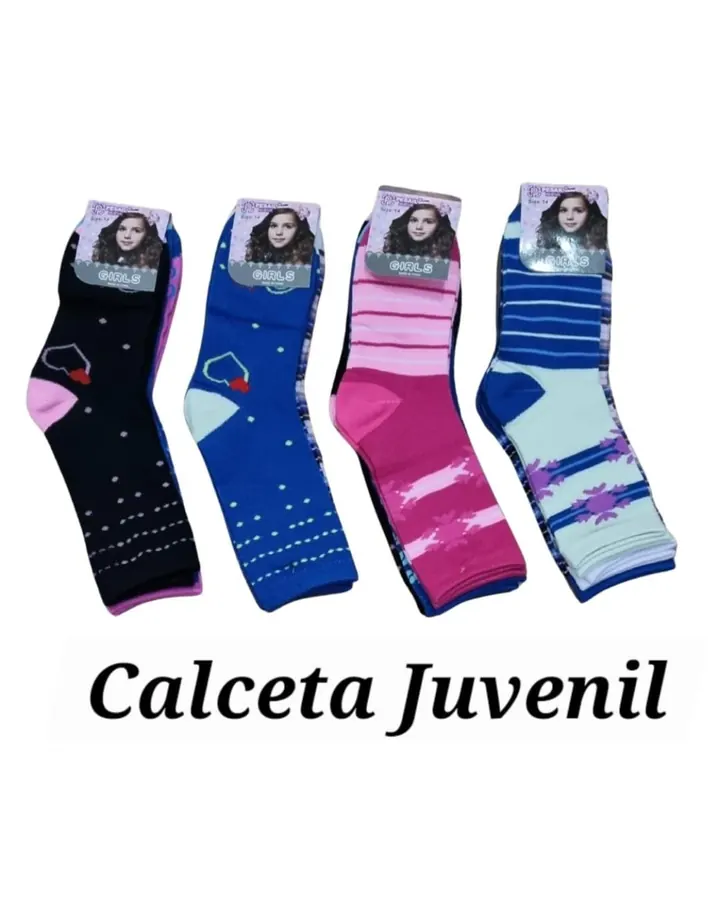
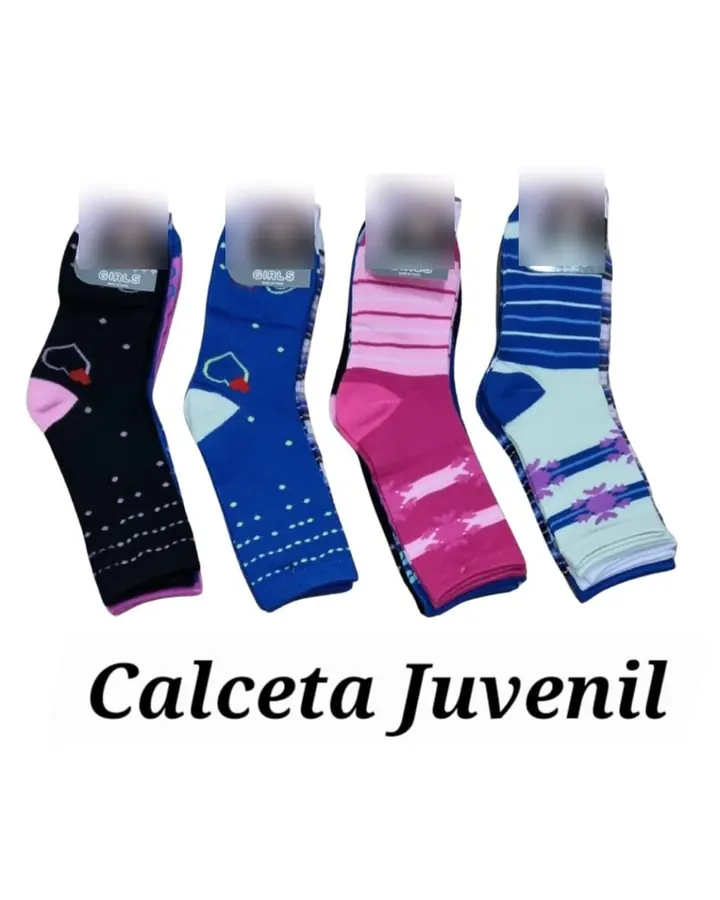
Versión 4.9: revisión legal del sitio
- Retira fotos con modelos de otras tiendas y la de pantalón acampanado/bóxer de tela; difumina modelos de la portada y caras de niñas en el envase de calceta juvenil.
- Tapa las leyendas 'Triunf' (parecido a una marca registrada).
- Quita afirmaciones de salud (afiches 'reductor/celulitis' y 'circulación/antibacterianas'); el ayudante con IA no promete efectos ni usa superlativos.
- Corrige las redes sociales escritas en 16 afiches (@angie.secret_ y Angie's Secret).
- Avisos de fotos referenciales y de descripción del fabricante en catálogo y fichas.
- Retracto: sin 'trajes de baño', 'después de la entrega' y compra por catálogo en tienda.
- Términos versión 2 y privacidad versión 5 (identificación del vendedor, mayores de 18, aviso de retiro de contenido, art. 50 A, almacenamiento local, bases legales, menores, estado Ley 21.719).

Claude-Session: https://claude.ai/code/session_018UgF5FJSViNSxv4WURKSyc

diff --git a/sitio/js/datos.js b/sitio/js/datos.js
@@ -139,11 +139,11 @@ const PRODUCTOS = [
   { id: "calzon-senora-xxxl", n: "Calzón de señora talla XXXL", para: ["mujer"], cat: "calzones", t: "todo", d: "Algodón peruano, en talla XXXL.", tallas: ["XXXL"], fotos: ["c-calzon-senora-xxxl"], k: "senora alto talla grande", modelo: true },
   { id: "calzon-midoly", n: "Calzón Midoly talla S", para: ["mujer"], cat: "calzones", t: "todo", d: "Algodón peruano, en talla S.", tallas: ["S"], fotos: ["c-calzon-midoly"], modelo: true },
   { id: "boxer-femenino", n: "Bóxer femenino de algodón peruano", para: ["mujer"], cat: "calzones", t: "todo", d: "Algodón peruano, cómodo y de colores.", fotos: ["c-boxer-femenino"], k: "boxer mujer culotte", modelo: true },
-  { id: "pantaleta-triunf", n: "Pantaleta lisa Triunf", para: ["mujer"], cat: "calzones", t: "todo", d: "Algodón peruano, lisa y de colores.", fotos: ["c-pantaleta-triunf"], k: "culotte", modelo: true },
+  { id: "pantaleta-triunf", n: "Pantaleta lisa de algodón peruano", para: ["mujer"], cat: "calzones", t: "todo", d: "Algodón peruano, lisa y de colores.", fotos: ["c-pantaleta-triunf"], k: "culotte", modelo: true },
   { id: "pantaleta-short", n: "Pantaleta short de algodón", para: ["mujer"], cat: "calzones", t: "todo", d: "Algodón peruano, tipo short.", fotos: ["c-pantaleta-short"], k: "culotte", modelo: true },
   { id: "pantaleta-a9640", n: "Pantaleta A9640", para: ["mujer"], cat: "calzones", t: "todo", d: "Acanalada, en varios colores.", tallas: ["L", "XL", "XXL"], fotos: ["c-pantaleta-a9640"], k: "culotte", modelo: true },
   { id: "pantaleta-encaje-21575", n: "Pantaleta de encaje 21575", para: ["mujer"], cat: "calzones", t: "todo", d: "Con encaje, en varios colores.", tallas: ["M", "L", "XL", "XXL"], fotos: ["c-pantaleta-encaje-21575"], k: "culotte encaje", modelo: true },
-  { id: "bikini-triunf", n: "Bikini liso Triunf", para: ["mujer"], cat: "calzones", t: "todo", d: "Algodón peruano, liso y de colores.", fotos: ["c-bikini-triunf"], modelo: true },
+  { id: "bikini-triunf", n: "Bikini liso de algodón peruano", para: ["mujer"], cat: "calzones", t: "todo", d: "Algodón peruano, liso y de colores.", fotos: ["c-bikini-triunf"], modelo: true },
   { id: "bikini-5098", n: "Bikini 5098", para: ["mujer"], cat: "calzones", t: "todo", d: "Con borde de encaje, en varios colores.", tallas: ["L", "XL", "2XL"], fotos: ["c-bikini-5098"], modelo: true },
   { id: "calzon-sacapierna", n: "Calzón sacapierna", para: ["mujer"], cat: "calzones", t: "todo", d: "Algodón peruano, corte alto en la pierna.", fotos: ["c-calzon-sacapierna"], k: "sacapierna", modelo: true },
   { id: "calzon-encaje-204", n: "Calzón de encaje 204", para: ["mujer"], cat: "calzones", t: "todo", d: "Con cintura de encaje.", tallas: ["M", "L", "XL", "XXL"], fotos: ["c-calzon-encaje-204"], k: "encaje", modelo: true },
@@ -160,21 +160,20 @@ const PRODUCTOS = [
   { id: "calzones-relleno", n: "Calzones y shorts con relleno", para: ["mujer"], cat: "calzones", t: "todo", d: "Realzan la silueta de forma discreta bajo pantalones y vestidos.", col: ["Negro", "Blanco", "Piel", "Morado"], fotos: ["w-calzon-relleno"], k: "levanta cola gluteos" },
 
   // Fajas y modeladores
-  { id: "calzon-faja-k028", n: "Calzón faja panal K028", para: ["mujer"], cat: "fajas", t: "todo", d: "Tejido panal que moldea. Marca MBB.", fotos: ["c-calzon-faja-k028"], k: "faja reductor", modelo: true },
+  { id: "calzon-faja-k028", n: "Calzón faja panal K028", para: ["mujer"], cat: "fajas", t: "todo", d: "Tejido panal. Marca MBB.", fotos: ["c-calzon-faja-k028"], k: "faja reductor", modelo: true },
   { id: "calzon-faja-k038", n: "Calzón faja panal largo K038", para: ["mujer"], cat: "fajas", t: "todo", d: "Tejido panal, modelo largo. Marca MBB.", fotos: ["c-calzon-faja-k038"], k: "faja reductor", modelo: true },
   { id: "calzon-faja-3363", n: "Calzón faja 3363", para: ["mujer"], cat: "fajas", t: "todo", d: "En negro, blanco, piel y morado.", fotos: ["c-calzon-faja-3363"], k: "faja reductor", modelo: true },
   { id: "calzon-faja-3368", n: "Calzón faja 3368", para: ["mujer"], cat: "fajas", t: "todo", d: "Tiro alto, talla única.", tallas: ["Única"], fotos: ["c-calzon-faja-3368"], k: "faja reductor tiro alto", modelo: true },
   { id: "calzon-faja-tiro-alto", n: "Calzón faja de tiro alto", para: ["mujer"], cat: "fajas", t: "todo", d: "Tiro alto, en negro, piel y blanco.", fotos: ["c-calzon-faja-tiro-alto", "c-calzon-faja-tiro-alto-2", "c-calzon-faja-tiro-alto-3"], k: "faja reductor tiro alto", modelo: true },
   { id: "modelador-8021", n: "Modelador 8021", para: ["mujer"], cat: "fajas", t: "todo", d: "Modelador en varios colores. Marca Body Key.", fotos: ["c-modelador-8021"], k: "faja reductor body", modelo: true },
-  { id: "fajas", n: "Fajas modeladoras", para: ["mujer"], cat: "fajas", t: "todo", d: "Cinturillas, shorts y bodies reductores para usar bajo la ropa.", tallas: SXXL, col: ["Negro", "Piel"], fotos: ["w-fajas"], afiches: ["d10d526d"], k: "faja reductora cinturilla body" },
+  { id: "fajas", n: "Fajas modeladoras", para: ["mujer"], cat: "fajas", t: "todo", d: "Cinturillas, shorts y bodies modeladores para usar bajo la ropa.", tallas: SXXL, col: ["Negro", "Piel"], fotos: ["w-fajas"], k: "faja reductora cinturilla body" },
 
   // Ropa interior de hombre
   { id: "boxer-adulto-jack", n: "Bóxer de adulto Jack", para: ["hombre"], cat: "interior-hombre", t: "todo", d: "Bóxer de colores, surtido de tallas.", fotos: ["c-boxer-adulto-jack"], k: "calzoncillo", modelo: true },
   { id: "boxer-liso-milano", n: "Bóxer liso Milano", para: ["hombre"], cat: "interior-hombre", t: "todo", d: "Liso, en varios colores.", fotos: ["c-boxer-liso-milano"], k: "calzoncillo", modelo: true },
   { id: "boxer-milano", n: "Bóxer Milano", para: ["hombre"], cat: "interior-hombre", t: "todo", d: "Pretina de color, en varios colores.", fotos: ["c-boxer-milano"], k: "calzoncillo", modelo: true },
-  { id: "boxer-maxi", n: "Bóxer maxi pierna larga", para: ["hombre"], cat: "interior-hombre", t: "todo", d: "Pierna larga, en varios colores. Marca Milano.", fotos: ["c-boxer-maxi", "c-boxer-maxi-2"], k: "calzoncillo largo", modelo: true },
+  { id: "boxer-maxi", n: "Bóxer maxi pierna larga", para: ["hombre"], cat: "interior-hombre", t: "todo", d: "Pierna larga, en varios colores. Marca Milano.", fotos: ["c-boxer-maxi"], k: "calzoncillo largo", modelo: true },
   { id: "slip-milano", n: "Slip Milano", para: ["hombre"], cat: "interior-hombre", t: "todo", d: "Slip en varios colores.", fotos: ["c-slip-milano"], k: "calzoncillo", modelo: true },
-  { id: "boxer-tela-leo", n: "Bóxer de tela LEO, pack de 2", para: ["hombre"], cat: "interior-hombre", t: "todo", d: "Bóxer de tela suelto, a cuadros. Vienen 2 por pack.", fotos: ["c-boxer-tela-leo"], k: "calzoncillo suelto cuadros pack", modelo: true },
   { id: "slip-boxer-hombre", n: "Slip y bóxer para hombre", para: ["hombre"], cat: "interior-hombre", t: "todo", d: "Slip, bóxer clásico y bóxer largo, lisos y estampados. 95% algodón y 5% lycra.", tallas: SXXL, col: ["Negro", "Blanco", "Gris", "Azul", "Celeste", "Naranja", "Verde"], fotos: ["m-ropa-interior"], afiches: ["40b9f8ba"], k: "calzoncillo boxer slip milano" },
   { id: "calzoncillos-largos", n: "Calzoncillos largos de polar", para: ["hombre"], cat: "interior-hombre", t: "invierno", d: "Primera capa térmica para los días más fríos.", tallas: SXXL, col: ["Gris claro", "Gris oscuro"], fotos: ["m-calzoncillo-largo"], afiches: ["cd40895a"], k: "termico primera capa" },
   { id: "conjunto-termico", n: "Conjunto térmico de polar", para: ["hombre"], cat: "interior-hombre", t: "invierno", d: "Polera y calzoncillo largo de polar, juntos o por separado.", tallas: SXXL, col: ["Azul marino", "Gris"], fotos: ["m-polera-polar"], afiches: ["740f1965"], k: "termico primera capa polera" },
@@ -222,7 +221,6 @@ const PRODUCTOS = [
   { id: "calzas-y-shorts", n: "Calzas y shorts lisos", para: ["mujer"], cat: "pantalones", t: "todo", d: "Calzas de pierna recta y acampanada, y shorts.", fotos: ["c-calzas-y-shorts"], k: "leggins short", modelo: true },
   { id: "short-calza", n: "Short tipo calza", para: ["mujer"], cat: "pantalones", t: "verano", d: "Short elástico de tiro alto.", col: ["Negro", "Arena", "Verde olivo", "Verde petróleo", "Café", "Burdeo", "Azul marino"], fotos: ["c-short-calza"], k: "calza corta", modelo: true },
   { id: "pantalon-pata-recta", n: "Pantalón pata recta", para: ["mujer"], cat: "pantalones", t: "todo", d: "Pata recta estándar, en varios colores.", fotos: ["c-pantalon-pata-recta"], modelo: true },
-  { id: "pantalon-acampanado", n: "Pantalón acampanado", para: ["mujer"], cat: "pantalones", t: "todo", d: "Tiro alto y pierna acampanada.", col: ["Negro", "Café"], fotos: ["c-pantalon-acampanado", "c-pantalon-acampanado-2"], k: "oxford flare", modelo: true },
   { id: "pantalon-prelavado", n: "Pantalón prelavado", para: ["mujer"], cat: "pantalones", t: "todo", d: "Pierna ancha y cintura con cordón.", fotos: ["c-pantalon-prelavado"], k: "jeans ancho", modelo: true },
   { id: "calzas-tiro-alto", n: "Calzas tiro alto", para: ["mujer"], cat: "pantalones", t: "todo", d: "Elásticas y cómodas, con pretina alta que estiliza.", tallas: SXXL, col: ["Azul jaspe", "Azul marino", "Gris jaspe", "Negro"], fotos: ["w-calza-tiro-alto"], afiches: ["487a2e06"], k: "leggins" },
   { id: "calzas-forradas", n: "Calzas forradas", para: ["mujer"], cat: "pantalones", t: "invierno", d: "Interior de lanilla, abrigadas y sin transparencias.", col: ["Azul marino", "Negro", "Bordó", "Gris oscuro", "Gris melange", "Verde militar", "Beige taupe", "Rosa viejo"], fotos: ["w-calza-forrada"], afiches: ["12c43e7c", "0b9a064a"], k: "leggins termicas" },
@@ -245,8 +243,8 @@ const PRODUCTOS = [
   { id: "tobillera-cobre-sc2191", n: "Tobillera de cobre y bambú SC2191", para: ["mujer"], cat: "calcetas", t: "todo", d: "Cobre y bambú. Marca Za-Za.", fotos: ["c-tobillera-cobre-sc2191"], k: "soquete", modelo: true },
   { id: "talonera-cobre-sc2116", n: "Talonera de cobre SC2116", para: ["mujer"], cat: "calcetas", t: "todo", d: "Talonera de cobre y algodón.", fotos: ["c-talonera-cobre-sc2116"], k: "soquete invisible", modelo: true },
   { id: "talonera-q8", n: "Talonera Q8", para: ["mujer"], cat: "calcetas", t: "todo", d: "Talonera en rosado, beige, blanco y negro.", fotos: ["c-talonera-q8"], k: "soquete invisible", modelo: true },
-  { id: "calceta-bambu-sc2140", n: "Calceta de bambú SC2140", para: ["mujer"], cat: "calcetas", t: "todo", d: "Bambú, apta para diabéticos.", fotos: ["c-calceta-bambu-sc2140"], k: "diabetico diabetes", modelo: true },
-  { id: "calceta-circulacion", n: "Calceta de circulación", para: ["mujer"], cat: "calcetas", t: "todo", d: "Algodón, de mujer.", fotos: ["c-calceta-circulacion"], k: "diabetico", modelo: true },
+  { id: "calceta-bambu-sc2140", n: "Calceta de bambú SC2140", para: ["mujer"], cat: "calcetas", t: "todo", d: "Bambú, de la línea para diabéticos del fabricante.", fotos: ["c-calceta-bambu-sc2140"], k: "diabetico diabetes", modelo: true },
+  { id: "calceta-circulacion", n: "Calceta de algodón línea Circulación, de Milano", para: ["mujer"], cat: "calcetas", t: "todo", d: "Algodón, de mujer. «Circulación» es el nombre que le da su fabricante.", fotos: ["c-calceta-circulacion"], k: "diabetico circulacion milano", modelo: true },
   { id: "calceta-juvenil", n: "Calceta juvenil", para: ["mujer"], cat: "calcetas", t: "todo", d: "Con diseños de colores.", fotos: ["c-calceta-juvenil"], modelo: true },
   { id: "calceta-toalla-w16208", n: "Calceta de algodón toalla W16208", para: ["mujer"], cat: "calcetas", t: "invierno", d: "Interior de toalla, con vuelta. Marca Pesail.", fotos: ["c-calceta-toalla-w16208"], modelo: true },
   { id: "calceta-larga-hd16305", n: "Calceta larga de algodón toalla HD-16305", para: ["mujer"], cat: "calcetas", t: "invierno", d: "Larga, con interior de toalla. Marca Pesail.", fotos: ["c-calceta-larga-hd16305"], modelo: true },
@@ -256,7 +254,7 @@ const PRODUCTOS = [
   { id: "calceta-thermo-8505", n: "Calceta thermo 8505", para: ["mujer"], cat: "calcetas", t: "invierno", d: "Térmica, con diseños.", fotos: ["c-calceta-thermo-8505"], k: "termica", modelo: true },
   { id: "calcetin-ultra-termico-sa2328", n: "Calcetín ultra térmico SA2328", para: ["mujer"], cat: "calcetas", t: "invierno", d: "Ultra térmico, de mujer. Marca Za-Za.", fotos: ["c-calcetin-ultra-termico-sa2328"], k: "termica", modelo: true },
   { id: "calceta-cachemira-sc2330", n: "Calceta de cachemira SC2330", para: ["mujer"], cat: "calcetas", t: "invierno", d: "Cachemira, de mujer. Marca Za-Za.", fotos: ["c-calceta-cachemira-sc2330"], k: "termica", modelo: true },
-  { id: "calcetin-diabetico-sk520", n: "Calcetín diabético grueso SK520", para: ["mujer"], cat: "calcetas", t: "invierno", d: "Grueso, apto para diabéticos. Marca Pesail.", fotos: ["c-calcetin-diabetico-sk520"], k: "diabetes", modelo: true },
+  { id: "calcetin-diabetico-sk520", n: "Calcetín diabético grueso SK520", para: ["mujer"], cat: "calcetas", t: "invierno", d: "Grueso, de la línea para diabéticos de Pesail.", fotos: ["c-calcetin-diabetico-sk520"], k: "diabetes", modelo: true },
   { id: "tobillera-bambu-sc3119", n: "Tobillera de bambú juvenil SC3119", para: ["mujer", "hombre"], cat: "calcetas", t: "todo", d: "Bambú, tallas 36 a 39. Marca Za-Za.", tallasTexto: "Tallas 36 a 39", fotos: ["c-tobillera-bambu-sc3119"], k: "soquete", modelo: true },
   { id: "media-cana-q44p", n: "Media caña juvenil Q44-P", para: ["mujer", "hombre"], cat: "calcetas", t: "todo", d: "Media caña, talla 38 a 40.", tallasTexto: "Talla 38 a 40", fotos: ["c-media-cana-q44p"], modelo: true },
   { id: "calceta-tenis-color", n: "Calceta tenis de color", para: ["mujer", "hombre"], cat: "calcetas", t: "todo", d: "Calceta deportiva en azul marino, gris y negro.", fotos: ["c-calceta-tenis-color"], k: "deportiva", modelo: true },
@@ -264,7 +262,7 @@ const PRODUCTOS = [
   { id: "tobillera-lisa-cach", n: "Tobillera lisa de hombre Ca&Ch", para: ["hombre"], cat: "calcetas", t: "todo", d: "Lisa, en azul marino, blanco y gris.", fotos: ["c-tobillera-lisa-cach"], k: "soquete", modelo: true },
   { id: "tobillera-cobre-sa1109", n: "Tobillera de cobre y bambú SA1109", para: ["hombre"], cat: "calcetas", t: "todo", d: "Cobre y bambú, con toalla. Marca Za-Za.", fotos: ["c-tobillera-cobre-sa1109"], k: "soquete", modelo: true },
   { id: "calcetin-vestir-ry-q715b", n: "Calcetín de vestir RY-Q715B", para: ["hombre"], cat: "calcetas", t: "todo", d: "De vestir, con rombos. Marca Pesail.", fotos: ["c-calcetin-vestir-ry-q715b"], k: "formal", modelo: true },
-  { id: "calcetin-diabetico-sk420", n: "Calcetín diabético grueso SK420", para: ["hombre"], cat: "calcetas", t: "invierno", d: "Grueso, apto para diabéticos.", fotos: ["c-calcetin-diabetico-sk420"], k: "diabetes", modelo: true },
+  { id: "calcetin-diabetico-sk420", n: "Calcetín diabético grueso SK420", para: ["hombre"], cat: "calcetas", t: "invierno", d: "Grueso, de la línea para diabéticos del fabricante.", fotos: ["c-calcetin-diabetico-sk420"], k: "diabetes", modelo: true },
   { id: "calcetin-diabetico-sa1177", n: "Calcetín diabético de cobre y bambú SA1177", para: ["hombre"], cat: "calcetas", t: "todo", d: "Cobre y bambú, con toalla. Marca Za-Za.", fotos: ["c-calcetin-diabetico-sa1177"], k: "diabetes", modelo: true },
   { id: "calceta-cachemira-sc1339", n: "Calceta de cachemira para diabéticos SC1339", para: ["hombre"], cat: "calcetas", t: "invierno", d: "Cachemira con interior de toalla.", fotos: ["c-calceta-cachemira-sc1339"], k: "diabetes termica", modelo: true },
   { id: "calcetin-grueso-sa1107", n: "Calcetín grueso de cobre y bambú SA1107", para: ["hombre"], cat: "calcetas", t: "invierno", d: "Grueso, de cobre y bambú.", fotos: ["c-calcetin-grueso-sa1107", "c-calcetin-grueso-sa1107-2"], k: "termica", modelo: true },
@@ -275,7 +273,7 @@ const PRODUCTOS = [
   { id: "calceta-alpaca-s08", n: "Calceta de alpaca antideslizante S08", para: ["hombre"], cat: "calcetas", t: "invierno", d: "Alpaca, con antideslizante. Marca Pesail.", fotos: ["c-calceta-alpaca-s08"], k: "termica chiporro", modelo: true },
   { id: "calcetas", n: "Calcetas para toda la familia", para: ["mujer", "hombre"], cat: "calcetas", t: "todo", d: "Deportivas, de vestir, casuales, tobilleras y térmicas.", tallas: ["35 a 38", "39 a 42", "43 a 46"], tallasTexto: "Del 35 al 46", col: ["Negro", "Azul marino", "Gris", "Blanco", "Gris jaspe", "Azul"], fotos: ["u-calcetas"], afiches: ["c19fb92a"], k: "calcetines medias" },
   { id: "calcetas-chiporro", n: "Calcetas de chiporro antideslizantes", para: ["hombre"], cat: "calcetas", t: "invierno", d: "Interior de chiporro y puntos antideslizantes para andar en casa.", tallas: ["Única (39 a 46)"], col: ["Azul marino", "Verde", "Gris oscuro"], fotos: ["m-calcetas-chiporro"], afiches: ["548851a5"], k: "calcetines polar" },
-  { id: "calcetas-diabeticos", n: "Calcetas para diabéticos", para: ["hombre"], cat: "calcetas", t: "todo", d: "Con cobre y bambú, y un puño que no aprieta. Pensadas para pies delicados.", tallas: ["Única"], col: ["Negro", "Azul marino", "Café"], fotos: ["m-calcetas-diabetes"], afiches: ["d2c3cf1e"], k: "calcetines diabetes" },
+  { id: "calcetas-diabeticos", n: "Calcetas para diabéticos", para: ["hombre"], cat: "calcetas", t: "todo", d: "Con cobre y bambú, y un puño que no aprieta.", tallas: ["Única"], col: ["Negro", "Azul marino", "Café"], fotos: ["m-calcetas-diabetes"], k: "calcetines diabetes" },
 
   // Gorros, bufandas y accesorios
   { id: "panuelos-color", n: "Pañuelos de color Pilathus", para: ["mujer", "hombre"], cat: "accesorios", t: "todo", d: "Pañuelos de género con borde de color.", fotos: ["c-panuelos-color"], modelo: true },
@@ -471,7 +469,7 @@ const PREGUNTAS_FRECUENTES = [
   { id: "garantia", cat: "cambios", p: "¿Qué pasa si una prenda viene con falla?", claves: "falla fallada defecto rota descosida garantia mala calidad",
     r: "Tienes garantía legal de 6 meses desde que la recibes: puedes elegir entre el cambio, la reparación o la devolución del dinero (Ley 19.496 sobre Protección de los Derechos de los Consumidores). Escríbenos con una foto de la falla y tu boleta, y lo resolvemos." },
   { id: "retracto", cat: "cambios", p: "¿Qué es el derecho a retracto?", claves: "retracto arrepentirme arrepentimiento devolver diez dias",
-    r: "Si compras a distancia (por ejemplo, por WhatsApp o desde esta página), tienes 10 días desde que recibes el producto para arrepentirte y devolverlo en buen estado, con sus etiquetas y envases originales.\n\n**Importante:** por higiene, no hay derecho a retracto en ropa interior ni trajes de baño si se abrió o retiró su sello o envase de seguridad.\n\nEn las compras hechas en la tienda no corre el retracto, pero sí la garantía legal. [Ver los términos y condiciones](terminos.html#cambios)." },
+    r: "Si compras a distancia (por ejemplo, por WhatsApp o desde esta página), tienes 10 días desde que recibes el producto para arrepentirte y devolverlo en buen estado, con sus etiquetas y envases originales.\n\n**Importante:** por higiene, no hay derecho a retracto en ropa interior ni en otros productos de uso personal o higiene si se abrió o retiró su sello o envase de seguridad después de la entrega.\n\nEn las compras hechas en la tienda con la prenda a la vista no corre el retracto, pero sí la garantía legal. Si en la tienda compraste por catálogo, sin ver la prenda, también tienes derecho a retracto. [Ver los términos y condiciones](terminos.html#cambios)." },
 
   { id: "descuento", cat: "descuento", p: "¿Cómo funciona el descuento de bienvenida?", claves: "descuento bienvenida registro registrarme promocion porcentaje",
     r: "[Regístrate](#registro) con tu nombre, apellido y teléfono. En tu primera compra por WhatsApp tienes 10% si las prendas suman desde $15.000, o 15% si suman $50.000 o más, sin contar el envío. Vale 1 mes desde que te registras y una vez por persona. [Ver las bases](privacidad.html#bases)." },

diff --git a/sitio/terminos.html b/sitio/terminos.html
@@ -34,7 +34,7 @@
   <div class="envoltura">
     <a class="marca" href="/"><span class="oculto">Angie's Secret, volver al inicio</span><span class="logo" aria-hidden="true"><span class="parte rosa">Angie<svg class="apos" viewBox="0 0 30 44"><use href="#i-etiqueta"/></svg>s</span> <span class="parte">Secret</span></span></a>
     <h1>Términos y condiciones</h1>
-    <p class="actualizado">Versión 1, noviembre de 2026. Rigen para el uso de este sitio y para los pedidos que se hagan desde él o por WhatsApp.</p>
+    <p class="actualizado">Versión 2, noviembre de 2026: aclara las fotos referenciales, las descripciones de los fabricantes, el derecho a retracto, la edad para registrarse y pedir, y cómo pedir que retiremos una foto o una marca. Rigen para el uso de este sitio y para los pedidos que se hagan desde él o por WhatsApp.</p>
 
     <nav class="indice" aria-label="Contenido">
       <strong>Contenido</strong>
@@ -65,13 +65,17 @@
       <li><strong>Pedidos y ventas:</strong> WhatsApp de la tienda <a href="https://wa.me/56995709114">+56 9 9570 9114</a> y la tienda física.</li>
       <li><strong>Consultas, problemas con un pedido o con la página, y datos personales:</strong> WhatsApp o llamada al <a href="https://wa.me/56949376311">+56 9 4937 6311</a>.</li>
       <li><strong>Correo:</strong> <a href="mailto:angiessecret2012@gmail.com">angiessecret2012@gmail.com</a>.</li>
+      <li><strong>Quién vende:</strong> el nombre o razón social, el RUT y el domicilio de quien vende te los entregamos por escrito al confirmar tu compra y en tu boleta, y también cuando nos los pidas.</li>
     </ul>
-    <p>Al usar este sitio o hacer un pedido aceptas estos términos. Si los cambiamos, publicaremos la nueva versión aquí con su fecha; a cada pedido se le aplica la versión vigente el día en que lo hiciste. Nada de lo que dicen estos términos limita los derechos que te da la Ley 19.496 sobre Protección de los Derechos de los Consumidores, que son irrenunciables.</p>
+    <p>Este sitio está dirigido a personas en Chile y los envíos se hacen solo dentro de Chile. Para registrarte y para hacer pedidos a distancia debes ser <strong>mayor de 18 años</strong>; si eres menor de edad, pide a tu madre, padre o a un adulto responsable que haga el pedido.</p>
+    <p>Al usar este sitio o hacer un pedido aceptas estos términos. Si los cambiamos, publicaremos la nueva versión aquí con su fecha; a cada pedido se le aplica la versión vigente el día en que lo hiciste. Nada de lo que dicen estos términos limita los derechos que te da la Ley 19.496 sobre Protección de los Derechos de los Consumidores, que son irrenunciables. Si alguna frase fuera poco clara, se interpreta a tu favor, y si alguna parte no fuera válida, el resto sigue vigente.</p>
 
     <h2 id="sitio">2. Qué es este sitio</h2>
     <ul>
       <li>Es un catálogo para conocer nuestros productos y armar un pedido que se envía por WhatsApp. No es una tienda con pago en línea: la página no cobra ni pide datos de tarjetas.</li>
-      <li>Las fotos son de nuestros productos y del local. Los colores pueden verse distintos según la pantalla, y un modelo puede variar levemente entre una partida y otra.</li>
+      <li><strong>Fotos referenciales:</strong> algunas fotos las tomamos en la tienda y muchas son de los fabricantes o proveedores de los productos. Por eso el color, el estampado, el envase o un detalle pueden variar, y los colores se ven distintos según la pantalla. Antes de comprar te confirmamos por escrito el modelo, la talla, el color y el precio de lo que vas a recibir; si lo que recibes no corresponde a lo confirmado, tienes los derechos de la garantía legal (sección 8).</li>
+      <li><strong>Descripciones de los fabricantes:</strong> lo que se dice de productos como calcetines de la línea para diabéticos, prendas con cobre o fajas y prendas modeladoras es lo que informa su fabricante. Ninguno es un producto médico, no prometemos resultados y no reemplazan la indicación de un profesional de la salud.</li>
+      <li>Por ahora los precios no se muestran en el catálogo: te los informamos por WhatsApp o en la tienda, y te confirmamos por escrito el total antes de que pagues (sección 4).</li>
       <li>El catálogo no muestra las unidades disponibles en tiempo real, porque la tienda también vende en persona. La disponibilidad se confirma por WhatsApp antes de comprar.</li>
       <li>Si hubiera un error evidente en una descripción, lo corregiremos y te lo informaremos antes de que compres.</li>
     </ul>
@@ -114,10 +118,10 @@
     <h3>Derecho a retracto (compras a distancia)</h3>
     <div class="destacado">
       <p>Si compras a distancia, por ejemplo por WhatsApp o desde esta página, tienes <strong>derecho a retracto</strong>: <strong>10 días desde que recibes el producto</strong> para arrepentirte y devolverlo en buen estado, con sus etiquetas, envases y elementos originales (artículo 3 bis de la Ley 19.496).</p>
-      <p><strong>Exclusión del derecho a retracto por higiene:</strong> no hay derecho a retracto en <strong>ropa interior ni trajes de baño</strong>, ni en otros productos de uso personal o higiene, <strong>si se abrió o se retiró su sello o envase de seguridad</strong> después de la entrega. Tampoco en productos hechos a tu medida o personalizados según tus indicaciones.</p>
+      <p><strong>Exclusión del derecho a retracto por higiene:</strong> no hay derecho a retracto en <strong>ropa interior</strong> ni en otros productos de uso personal o higiene <strong>si se abrió o se retiró su sello o envase de seguridad después de la entrega</strong>. Tampoco en productos hechos a tu medida o personalizados según tus indicaciones.</p>
       <p style="margin-bottom:0">Para ejercerlo, escríbenos al <a href="https://wa.me/56949376311">+56 9 4937 6311</a> o a <a href="mailto:angiessecret2012@gmail.com">angiessecret2012@gmail.com</a> dentro del plazo y te explicamos cómo devolver el producto. Te devolveremos lo pagado en el plazo que fija la ley.</p>
     </div>
-    <p>En las compras hechas en la tienda física no corre el derecho a retracto, pero sí la garantía legal.</p>
+    <p>En las compras hechas en la tienda física, con la prenda a la vista, no corre el derecho a retracto, pero sí la garantía legal. Si en la tienda compraste por catálogo, sin acceso directo a la prenda, también tienes derecho a retracto.</p>
 
     <h3>Cambios por talla, color o gusto</h3>
     <p>La ley no obliga a cambiar productos sin falla. Si quieres asegurarte de poder cambiar una prenda por talla o color, pregúntanos antes de comprar: te informaremos por escrito las condiciones de esa prenda. Para cualquier cambio, la prenda debe estar sin uso, con sus etiquetas, y con la boleta.</p>
@@ -149,7 +153,8 @@
     <p>Angie's Secret <strong>nunca</strong> te pedirá por mensaje, correo o llamada tus claves, códigos de verificación de WhatsApp ni datos de tarjetas. Nuestros únicos canales son los de la sección 1. Si alguien te contacta en nuestro nombre desde otro número o te pide algo así, no respondas y avísanos al <a href="https://wa.me/56949376311">+56 9 4937 6311</a>.</p>
 
     <h2 id="propiedad">13. Fotos, textos y marcas</h2>
-    <p>El diseño, los textos, el logotipo y las fotos propias de este sitio pertenecen a Angie's Secret. Las marcas de los productos que vendemos pertenecen a sus respectivos dueños.</p>
+    <p>El diseño, los textos, el logotipo y las fotos tomadas por la tienda pertenecen a Angie's Secret. Las fotos de los fabricantes o proveedores y las marcas de los productos que vendemos pertenecen a sus respectivos dueños; las marcas se nombran solo para identificar los productos que vendemos. Angie's Secret no es una tienda oficial de esas marcas ni tiene relación con otras tiendas de nombre parecido.</p>
+    <p><strong>Si eres dueña o dueño de una foto, una marca o cualquier contenido de este sitio</strong> y crees que su uso no corresponde, escríbenos a <a href="mailto:angiessecret2012@gmail.com">angiessecret2012@gmail.com</a> indicando cuál es y por qué: lo revisamos y, si corresponde, lo retiramos a la brevedad.</p>
 
     <h2 id="datos">14. Datos personales</h2>
     <p>Cómo tratamos tus datos, incluida la medición anónima de uso de la página y cómo desactivarla, está en el <a href="/privacidad">aviso de privacidad</a>. No entregamos a nadie información personal de clientas, clientes ni de quienes trabajan en la tienda.</p>
@@ -161,7 +166,7 @@
     <p>Hacemos lo posible para que la página funcione siempre y la información esté al día, pero puede tener interrupciones por mantenimiento o por el servicio de alojamiento. Si encuentras un error, avísanos y lo corregimos. Respondemos por nuestros productos y nuestra atención según la ley.</p>
 
     <h2 id="reclamos">17. Consultas y reclamos</h2>
-    <p>Para cualquier consulta o reclamo, escríbenos o llámanos al <a href="https://wa.me/56949376311">+56 9 4937 6311</a> o a <a href="mailto:angiessecret2012@gmail.com">angiessecret2012@gmail.com</a>: queremos resolverlo contigo. También puedes acudir al Servicio Nacional del Consumidor (<a href="https://www.sernac.cl" target="_blank" rel="noopener">sernac.cl</a>) o al Juzgado de Policía Local que corresponda. Estos términos se rigen por las leyes de Chile.</p>
+    <p>Para cualquier consulta o reclamo, escríbenos o llámanos al <a href="https://wa.me/56949376311">+56 9 4937 6311</a> o a <a href="mailto:angiessecret2012@gmail.com">angiessecret2012@gmail.com</a>: queremos resolverlo contigo. También puedes acudir al Servicio Nacional del Consumidor (<a href="https://www.sernac.cl" target="_blank" rel="noopener">sernac.cl</a>) o presentar tu reclamo ante el Juzgado de Policía Local de tu domicilio o del domicilio de la tienda, a tu elección (artículo 50 A de la Ley 19.496). Estos términos se rigen por las leyes de Chile.</p>
 
     <div class="acciones">
       <a class="boton boton-principal" href="/">Ir al inicio</a>

diff --git a/sitio/privacidad.html b/sitio/privacidad.html
@@ -33,11 +33,11 @@
   <div class="envoltura">
     <a class="marca" href="/"><span class="oculto">Angie's Secret, volver al inicio</span><span class="logo" aria-hidden="true"><span class="parte rosa">Angie<svg class="apos" viewBox="0 0 30 44"><use href="#i-etiqueta"/></svg>s</span> <span class="parte">Secret</span></span></a>
     <h1>Privacidad y bases del descuento de bienvenida</h1>
-    <p class="actualizado">Versión 4, noviembre de 2026: agrega el uso de inteligencia artificial en el ayudante virtual. La versión 3 agregó el código de bienvenida, la medición anónima de uso de la página y la seguridad del sitio. Ver también los <a href="/terminos">términos y condiciones</a>.</p>
+    <p class="actualizado">Versión 5, noviembre de 2026: agrega qué guarda tu navegador, la base legal de cada uso, que no tratamos datos de menores de edad y el estado de la nueva ley de datos personales. La versión 4 agregó el uso de inteligencia artificial en el ayudante virtual y la versión 3 agregó el código de bienvenida, la medición anónima de uso de la página y la seguridad del sitio. Ver también los <a href="/terminos">términos y condiciones</a>.</p>
 
     <h2 id="privacidad">Aviso de privacidad</h2>
     <h3>Quién es responsable de tus datos</h3>
-    <p>Angie's Secret, tienda ubicada en Domingo Santa María 3831, Renca, Región Metropolitana, Chile. Para cualquier consulta sobre tus datos puedes escribirnos a <a href="mailto:angiessecret2012@gmail.com">angiessecret2012@gmail.com</a> o por WhatsApp al <a href="https://wa.me/56949376311">+56 9 4937 6311</a>.</p>
+    <p>Angie's Secret, tienda ubicada en Domingo Santa María 3831, Renca, Región Metropolitana, Chile. Para cualquier consulta sobre tus datos puedes escribirnos a <a href="mailto:angiessecret2012@gmail.com">angiessecret2012@gmail.com</a> o por WhatsApp al <a href="https://wa.me/56949376311">+56 9 4937 6311</a>. Si lo pides, te entregamos por escrito el nombre o razón social y el RUT de la persona responsable.</p>
 
     <h3>Qué datos pedimos</h3>
     <ul>
@@ -51,8 +51,11 @@
     <ul>
       <li><strong>Aplicar tu descuento de bienvenida:</strong> identificarte cuando hagas tu primera compra por WhatsApp y anotar que ya usaste el beneficio. Lo hacemos porque tú lo pides al registrarte.</li>
       <li><strong>Enviarte promociones y novedades,</strong> por WhatsApp o correo, solo si marcaste esa casilla. La base es tu consentimiento, que puedes retirar cuando quieras.</li>
+      <li><strong>Evitar registros falsos o repetidos y proteger el sitio:</strong> con la fecha, la hora y la IP del registro y con los registros de seguridad. La base es el interés legítimo de la tienda en que el beneficio sea uno por persona y en que el sitio sea seguro.</li>
+      <li><strong>Atender tu pedido o tu reclamo</strong> por WhatsApp o correo: con los datos que tú nos das en esa conversación, para cumplir la compra y nuestras obligaciones legales (boleta, garantía y retracto).</li>
     </ul>
     <p>No vendemos ni compartimos tus datos con otras empresas para que te ofrezcan sus productos.</p>
+    <p><strong>Menores de edad:</strong> el registro y el descuento son solo para mayores de 18 años, y no buscamos reunir datos de menores de edad. Si eres madre, padre o tutor y crees que un menor se registró, escríbenos y borramos sus datos.</p>
 
     <h3>Dónde se guardan</h3>
     <p>En Netlify, la empresa que aloja este sitio (sus servidores están fuera de Chile), y en un registro interno de la tienda al que solo accede la familia que la administra. Nunca publicamos ni entregamos a otras personas los datos de quienes se registran.</p>
@@ -62,6 +65,16 @@
       <li>Si no aceptaste recibir promociones, borramos tus datos a más tardar seis meses después de terminada la promoción, es decir, el 31 de julio de 2027.</li>
       <li>Si aceptaste, los guardamos mientras quieras recibir promociones. Cuando te des de baja, los borramos.</li>
     </ul>
+
+    <h3 id="navegador">Lo que guarda tu propio navegador</h3>
+    <p>Para que la página funcione, tu navegador guarda en tu propio equipo (almacenamiento local, no en nuestros servidores) algunos datos que puedes borrar cuando quieras limpiando los datos del sitio en tu navegador:</p>
+    <ul>
+      <li>El pedido que estás armando y, por 24 horas, el último pedido que enviaste, para que puedas reenviarlo.</li>
+      <li>Si te registraste: tu nombre, apellido, la fecha y tu código de bienvenida, para mostrarte tu descuento. Tu teléfono no se guarda en el navegador.</li>
+      <li>Cuántas respuestas con inteligencia artificial te quedan hoy en el ayudante.</li>
+      <li>El número al azar de la medición anónima y tu opción de no ser medido (más abajo).</li>
+    </ul>
+    <p>No usamos cookies de publicidad ni de otras empresas.</p>
 
     <h3 id="medicion">Medición anónima de uso de la página</h3>
     <p>Para mejorar la página contamos, de forma anónima, cómo se usa: visitas, si llegan desde Google, Instagram, Facebook o WhatsApp, si es celular o computador, qué productos se miran, qué se busca, cuántos pedidos se envían, qué temas se consultan al ayudante y si la página tiene errores.</p>
@@ -88,7 +101,8 @@
 
     <h3>Tus derechos</h3>
     <p>Puedes pedirnos ver tus datos, corregirlos, borrarlos, oponerte a su uso, llevártelos o que los dejemos de usar por un tiempo. También puedes darte de baja de las promociones cuando quieras: responde "BAJA" a cualquier mensaje nuestro, escríbenos a <a href="mailto:angiessecret2012@gmail.com">angiessecret2012@gmail.com</a> o por WhatsApp al <a href="https://wa.me/56949376311">+56 9 4937 6311</a>. Cada correo de promociones incluirá también cómo darte de baja.</p>
-    <p>Tratamos tus datos según la Ley 19.628 sobre protección de la vida privada y, desde su entrada en vigencia, la Ley 21.719 sobre protección de datos personales.</p>
+    <p>Te respondemos dentro de los plazos que fija la ley. Si no quedas conforme, puedes reclamar ante los tribunales y, cuando entre en funciones, ante la Agencia de Protección de Datos Personales.</p>
+    <p>Tratamos tus datos según la Ley 19.628 sobre protección de la vida privada y, desde su entrada en vigencia, la Ley 21.719 sobre protección de datos personales (hoy prevista para el 1 de diciembre de 2026; si la ley cambia esa fecha, nos ajustaremos a la nueva).</p>
 
     <h2 id="bases">Bases de la promoción "Descuento de bienvenida"</h2>
     <ol>

diff --git a/sitio/js/app.js b/sitio/js/app.js
@@ -8,6 +8,8 @@ const IMGS = window.__IMGS__ || {};
 const foto = k => IMGS[k] || `img/${k}.webp`;
 // Secciones de ropa interior: llevan el aviso del derecho a retracto por higiene.
 const CATS_INTERIOR = new Set(["sostenes", "calzones", "fajas", "interior-hombre"]);
+// Prendas cuya descripción viene del fabricante y podría leerse como de salud (diabéticos, circulación, cobre, fajas).
+const DESCRIPCION_FABRICANTE = /diabet|circulacion|cobre|faja|modelador/;
 const afiche = id => IMGS["a:" + id] || `fichas/${id}.webp`;
 const $ = s => document.querySelector(s);
 const esc = s => String(s).replace(/[&<>"']/g, c => ({ "&": "&amp;", "<": "&lt;", ">": "&gt;", '"': "&quot;", "'": "&#39;" }[c]));
@@ -386,6 +388,8 @@ function abrirProducto(id) {
       <h2 id="ficha-nombre">${esc(p.n)}</h2>
       <p>${esc(p.d)}</p>
       <p class="letra-chica">${esc(textoTallas(p))}${p.precio ? `. Precio: $${p.precio.toLocaleString("es-CL")}` : ""}</p>
+      ${p.modelo ? `<p class="letra-chica nota-ficha">Foto referencial del proveedor: el color, el estampado o el envase pueden variar. Te confirmamos el modelo por WhatsApp antes de comprar.</p>` : ""}
+      ${DESCRIPCION_FABRICANTE.test(norm(p.n + " " + p.d)) ? `<p class="letra-chica nota-ficha">Descripción según su fabricante. No es un producto médico ni reemplaza la indicación de un profesional de la salud.</p>` : ""}
       <form id="form-producto">
         ${tallas ? `<fieldset><legend>Talla</legend><div class="opciones">${[...tallas, "No sé mi talla"].map((t, i) => `<label class="opcion"><input type="radio" name="talla" value="${esc(t)}" ${tallas.length === 1 && i === 0 ? "checked" : ""}><span>${esc(t)}</span></label>`).join("")}</div></fieldset>`
                  : `<div class="campo"><label for="talla-libre">Talla (opcional)</label><input id="talla-libre" name="tallaLibre" placeholder="Ej: M, XL, 46"></div>`}
@@ -401,7 +405,7 @@ function abrirProducto(id) {
           <button type="button" class="boton-texto compartir" id="compartir"><svg viewBox="0 0 24 24" aria-hidden="true" style="width:1.1em;height:1.1em;vertical-align:-3px"><use href="#i-compartir"/></svg> Compartir este producto</button>
         </div>
         <p class="letra-chica">Te confirmamos disponibilidad y precio por WhatsApp.</p>
-        ${CATS_INTERIOR.has(p.cat) || p.interior ? `<p class="aviso-legal"><strong>Derecho a retracto:</strong> por higiene, la ropa interior no tiene derecho a retracto si se abrió o retiró su sello o envase de seguridad. <a href="terminos.html#cambios">Más información</a></p>` : ""}
+        ${CATS_INTERIOR.has(p.cat) || p.interior ? `<p class="aviso-legal"><strong>Derecho a retracto:</strong> por higiene, la ropa interior no tiene derecho a retracto si se abrió o retiró su sello o envase de seguridad después de la entrega. <a href="terminos.html#cambios">Más información</a></p>` : ""}
       </form>
     </div>`;
   const f = $("#form-producto");
@@ -604,7 +608,7 @@ function pintarPedido() {
     ${registro ? `<p class="letra-chica registro-quien">Registro de bienvenida en este equipo: <strong>${esc(registro.nombre)} ${esc((registro.apellido || "").charAt(0))}.</strong>${registro.codigo ? `, código ${esc(registro.codigo)}` : ""}${registro.usado ? " (ya lo pediste)" : ""}. <button type="button" class="boton-texto en-linea" data-olvidar-registro>¿No eres tú? Quitar de este equipo</button></p>` : `<p class="letra-chica">¿Primera compra? <a href="#registro" data-ir-registro>Regístrate</a> y recibe hasta un 15% de descuento.</p>`}
     <div class="campo"><label for="nombre">Tu nombre</label><input id="nombre" value="${esc(datosCliente.nombre)}" autocomplete="name" required aria-describedby="error-nombre"><p class="registro-error" id="error-nombre" role="alert" hidden>Escribe tu nombre para que sepamos quién hace el pedido.</p></div>
     <div class="campo"><label for="nota">Comentario (opcional)</label><textarea id="nota" placeholder="Ej: es para regalo">${esc(datosCliente.nota)}</textarea></div>
-    <p class="aviso-legal"><strong>Derecho a retracto:</strong> si compras a distancia, tienes 10 días desde que recibes tu pedido para arrepentirte. Por higiene, no aplica a ropa interior ni trajes de baño si se abrió o retiró su sello o envase de seguridad. La garantía legal por fallas es de 6 meses. <a href="terminos.html#cambios">Ver términos</a></p>
+    <p class="aviso-legal"><strong>Derecho a retracto:</strong> si compras a distancia, tienes 10 días desde que recibes tu pedido para arrepentirte. Por higiene, no aplica a ropa interior ni a otros productos de uso personal o higiene si se abrió o retiró su sello o envase de seguridad después de la entrega. La garantía legal por fallas es de 6 meses. <a href="terminos.html#cambios">Ver términos</a></p>
     <div class="ficha-acciones">
       <a class="boton boton-wsp" id="enviar-pedido" href="${wspUrl(mensajePedido())}" target="_blank" rel="noopener"><svg viewBox="0 0 24 24" aria-hidden="true"><use href="#i-wsp"/></svg>Enviar pedido por WhatsApp</a>
       <button type="button" class="boton-texto" id="copiar-pedido">Copiar mi pedido</button>

diff --git a/sitio/index.html b/sitio/index.html
@@ -1,5 +1,5 @@
 <!doctype html>
-<!-- Angie's Secret · versión 4.8 · 30 de octubre de 2026 -->
+<!-- Angie's Secret · versión 4.9 · 30 de octubre de 2026 -->
 <html lang="es-CL">
 <head>
 <meta charset="utf-8">
@@ -103,7 +103,7 @@
       <figure class="vitrina">
         <div class="vitrina-marco">
         <div class="vitrina-foto">
-          <img src="img/portada.webp" width="820" height="1025" alt="Frente de la tienda: ropa colgada en la entrada, maniquíes en la vereda y el letrero de Angie's Secret con modelos en lencería, el WhatsApp y la dirección." fetchpriority="high">
+          <img src="img/portada.webp" width="820" height="1025" alt="Frente de la tienda: ropa colgada en la entrada, maniquíes en la vereda y el letrero de Angie's Secret con el WhatsApp y la dirección." fetchpriority="high">
         </div>
         <div class="letrero" id="letrero" data-abierto="si" role="status" aria-live="polite">
           <div class="letrero-gira">
@@ -172,6 +172,7 @@
         </div>
       </div>
       <div class="avanzar"><button type="button" class="boton boton-principal" id="avanzar-catalogo">Avanzar</button></div>
+      <p class="letra-chica nota-catalogo">Fotos referenciales: muchas son de nuestros proveedores, por eso el color, el estampado o el envase pueden variar. Antes de comprar te confirmamos por WhatsApp el modelo, la talla, el color y el precio.</p>
       <p class="resumen" id="resumen" aria-live="polite" tabindex="-1"></p>
       <div id="listado"></div>
     </div>

diff --git a/sitio/css/estilos.css b/sitio/css/estilos.css
@@ -283,6 +283,8 @@ legend { font-weight: 700; color: var(--noche); margin-bottom: 8px; padding: 0; 
 .cantidad output { min-width: 40px; text-align: center; font-weight: 700; font-size: 1.2rem; }
 .ficha-acciones { display: grid; gap: 10px; margin-top: 24px; }
 .letra-chica { margin: 12px 0 0; font-size: .9375rem; color: var(--suave); }
+.nota-ficha { margin-top: 8px; }
+.nota-catalogo { max-width: 760px; }
 .compartir { margin-top: 6px; }
 
 /* Ventana del pedido */
